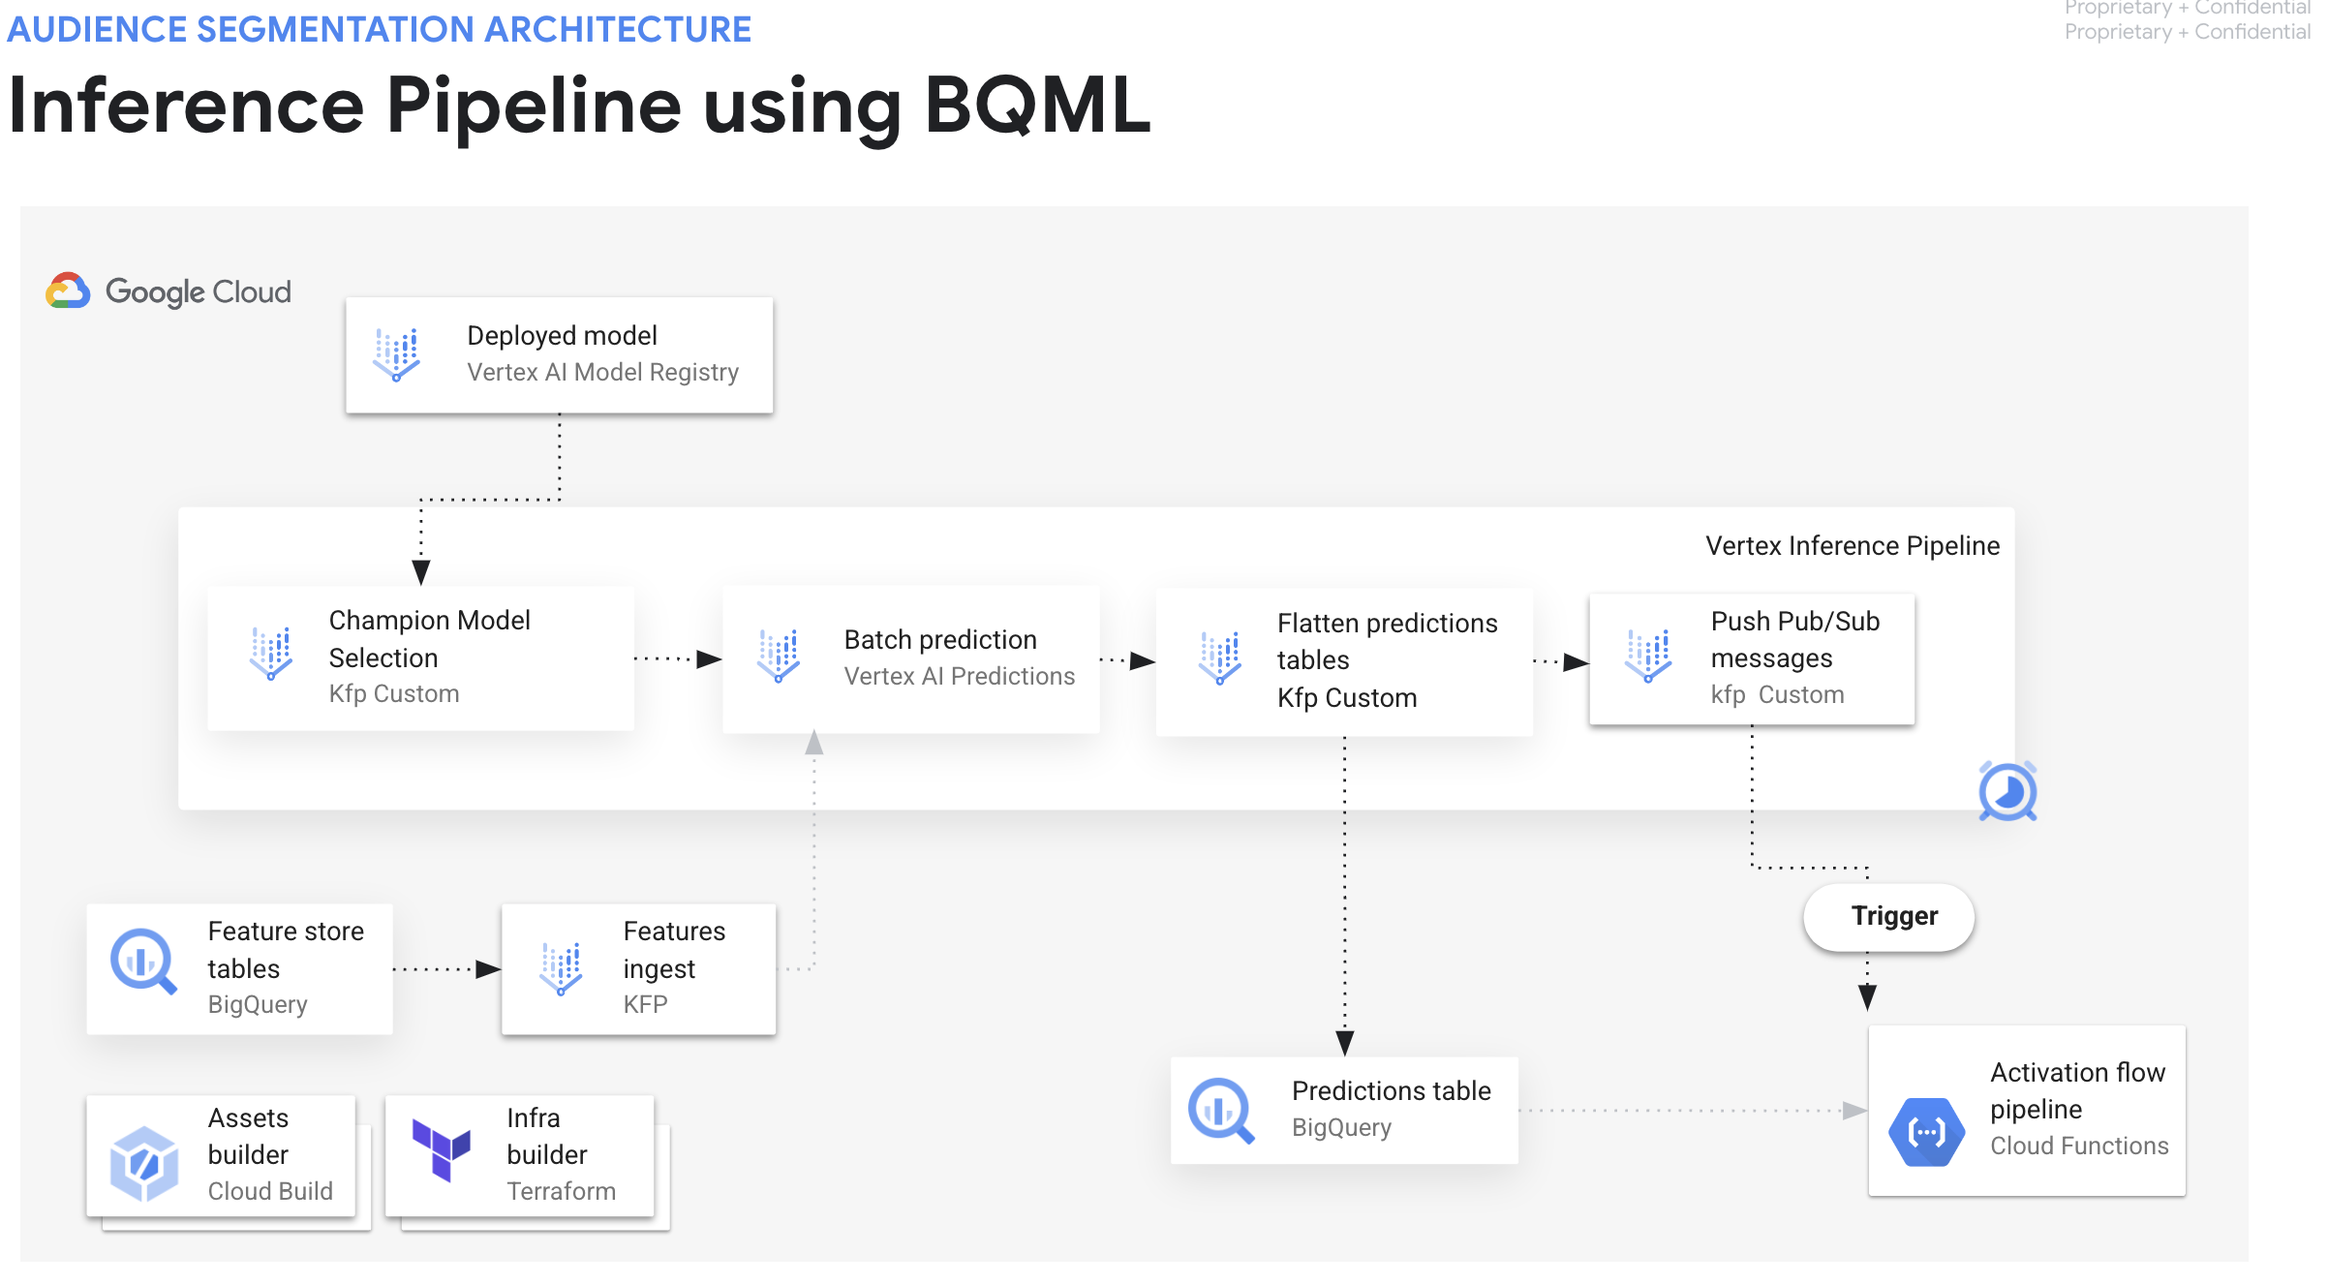
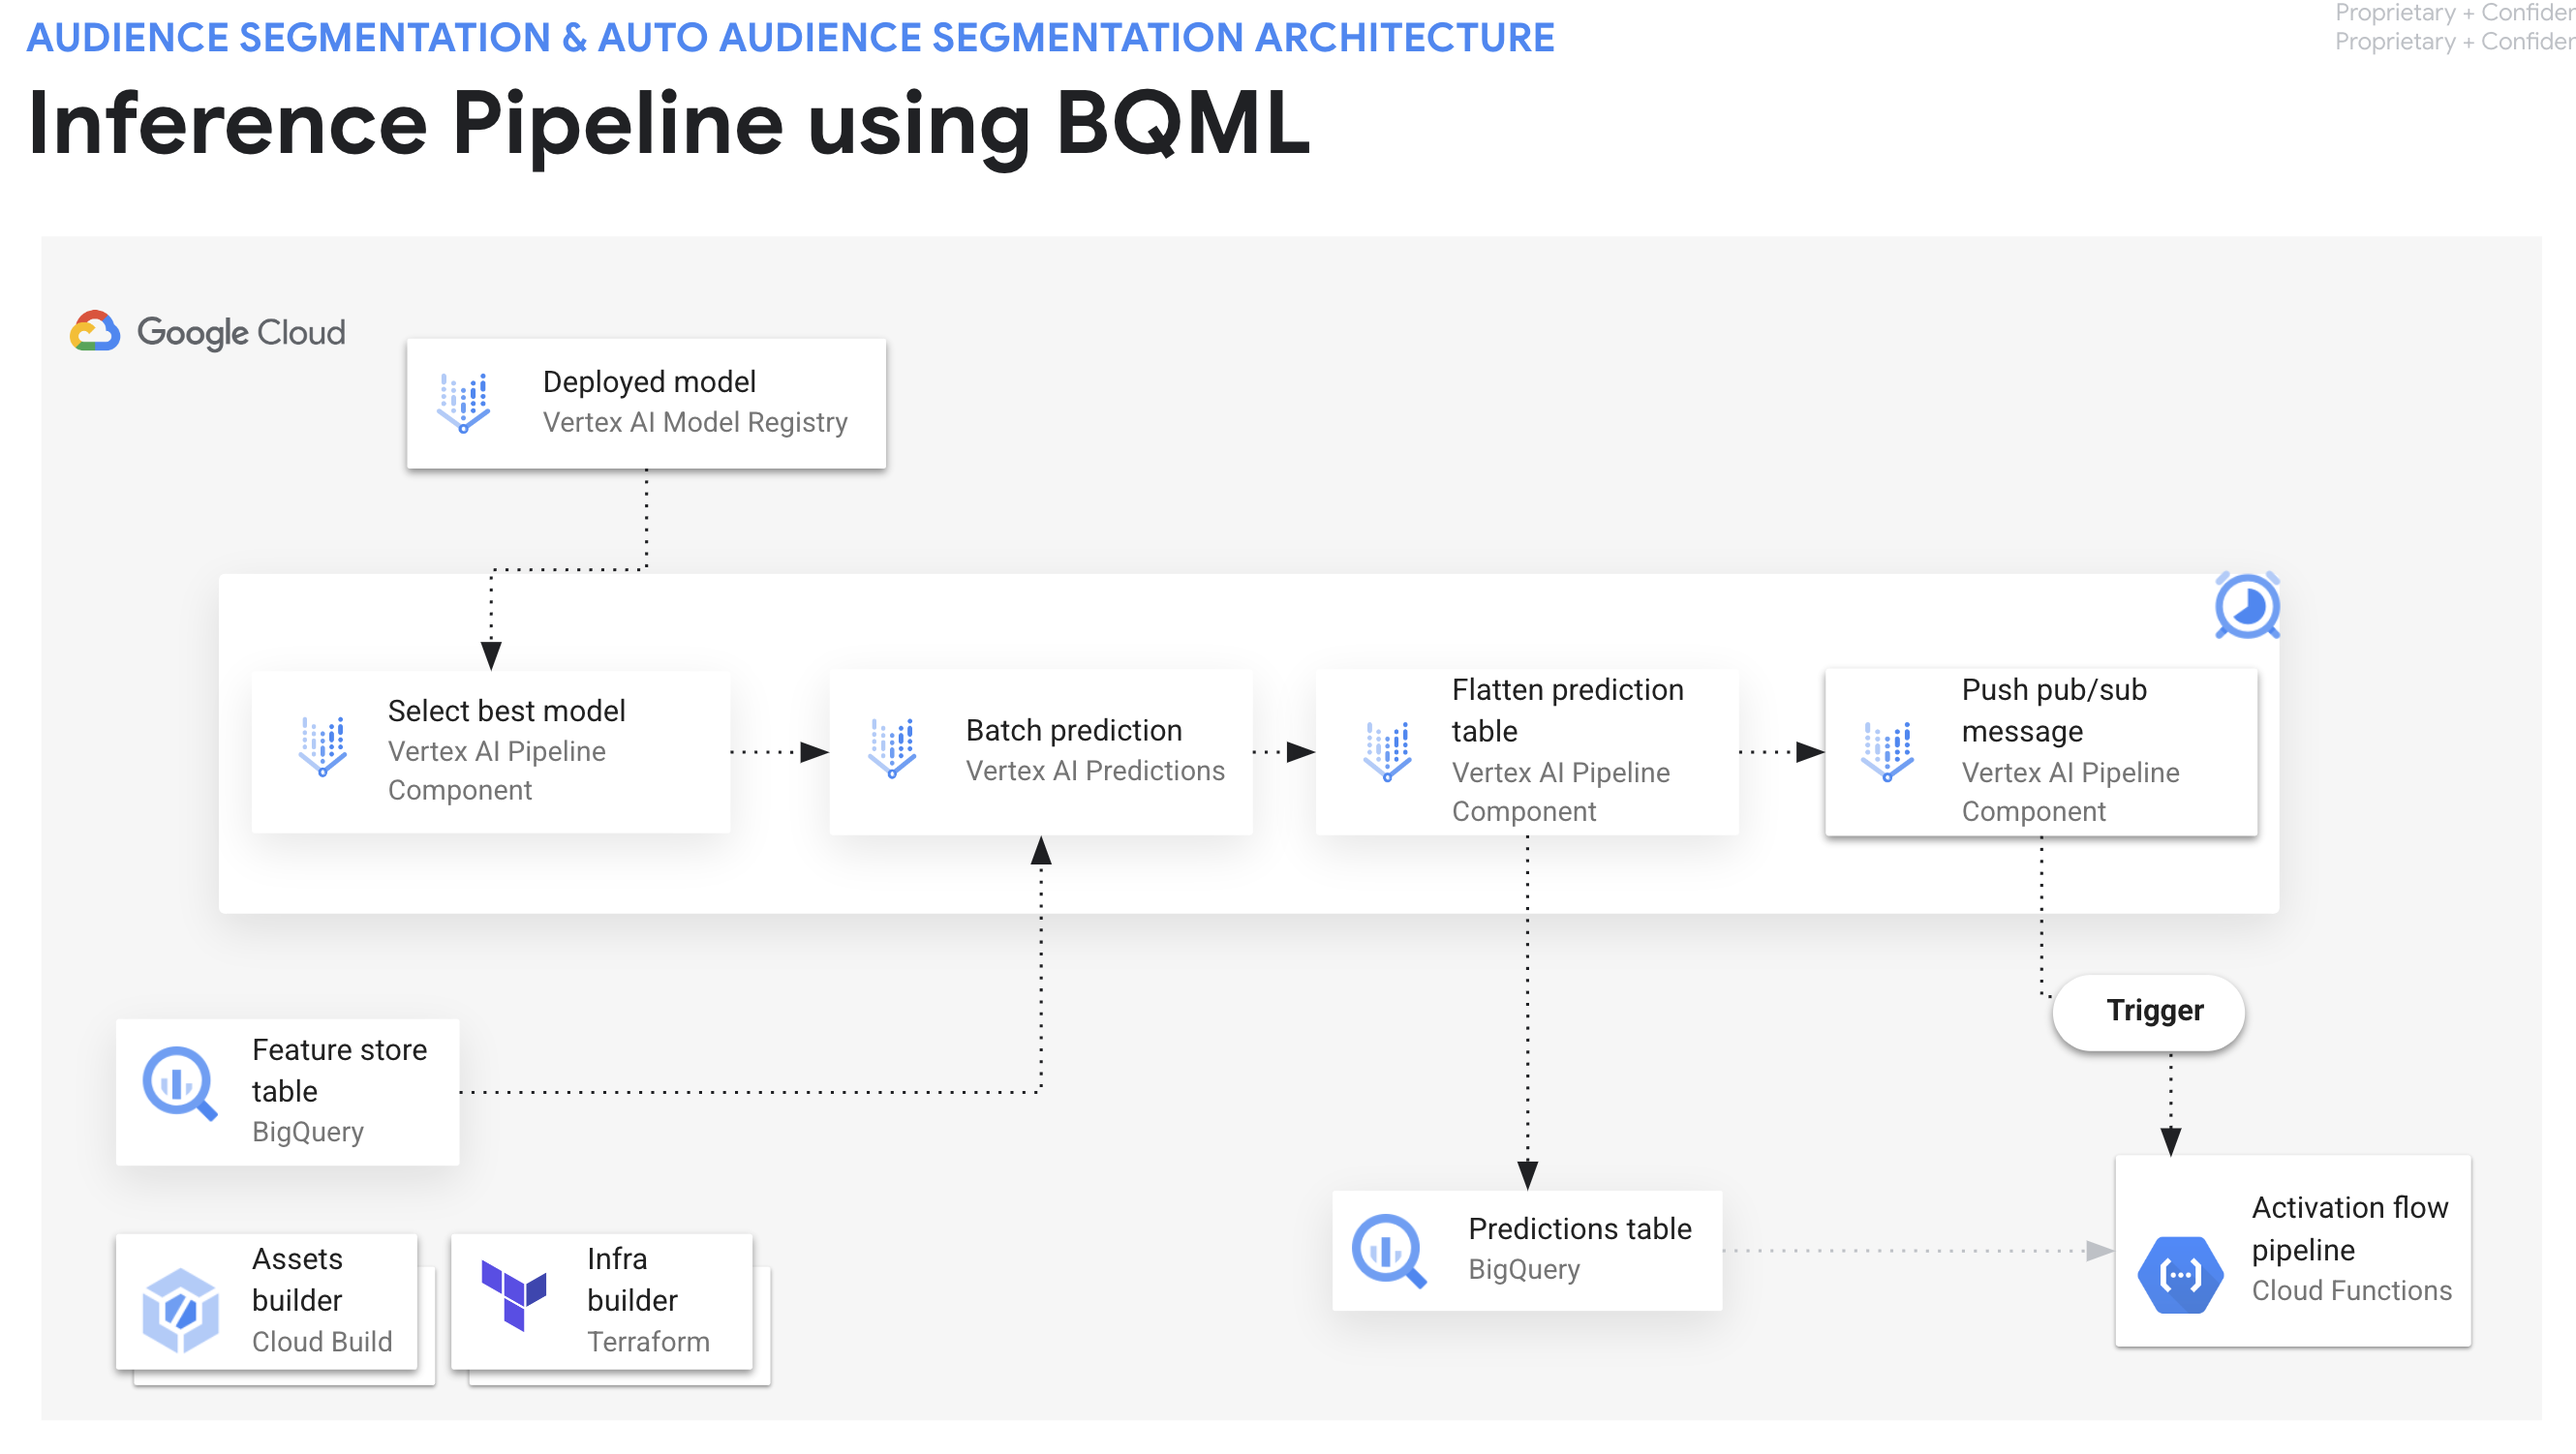
adding ml pipelines docs

diff --git a/docs/pipelines.md b/docs/pipelines.md
@@ -4,26 +4,29 @@
 
 The Machine Learning (ML) pipelines component involves leveraging ML models and building pipelines to automate and orchestrate the training and prediction tasks to obtain the predictive insights to be sent via the Activation Application and to presented in the Reporting dashboards.
 
-## Solution Architecture
+## Overall Solution Architecture
 
-![Feature Engineering pipelines architecture](images/pipelines_feature_engineering_architecture.png)
-This architecture diagram illustrates the process of preparing features for machine learning models. The core components are:
-* **Data Store**: This represents the marketing data store data, present in BigQuery, that comes from Google Analytics 4.
+![Overall ML Pipelines Architecture](images/pipelines_overall_ml_pipeline_architecture.png)
+
+This architecture diagram illustrates the process of training and running prediction for machine learning models. The core components are:
+
 * **Feature Store**: This is a central repository where features used to train the model are stored. It's designed for efficient access and management of features, ensuring consistency and reusability across different ML models. In the feature store, labels, dimensions and metrics are stored in tables in BigQuery.
-* **Training and Inference preparation procedures**: This step involves cleaning, transforming, and enriching the feature data. It might include tasks like handling missing values, removing duplicates, converting data types, scaling values.
-* **Use Cases Tables**: Independent tables and views created for each individual use case containing data ready for training and prediction tasks for that specific date. Model training and inference can be reproduced by re-running this procedures with parameters set for any date in the past.
+* **Training pipeline**: This component involves training a model on Vertex AI using the training data stored in BigQuery tables, evaluating the model using the evaluation data, optionally, obtaining feature importance, and uploading the new model version to the Vertex AI Model Registry. It might include tasks like handling missing values, ranking and selecting features, converting data types, scaling values, running hyperparameter tuning, distilling and more.
+* **Inference pipeline**: This component involves selecting the best model version, running batch prediction using the feature store data, prepare the predictions table and publishing a pub/sub message to trigger the Activation application.
 
 **Benefits of this Architecture**
-* **Data Consistency**: The Feature Store ensures that all models use the same, consistent features, reducing errors and improving model performance.
-* **Feature Reusability**: Features can be reused across multiple models, saving time and effort.
-* **Scalability**: The Feature Store can handle large datasets and complex feature engineering pipelines.
-* **Improved Model Performance**: By providing clean, well-engineered features, the Feature Store helps improve the accuracy and reliability of ML models.
+* **Pipeline Consistency**: The ML pipelines ensures that all models use the same, consistent pipeline steps, reducing errors and enabling troubleshooting model performance.
+* **Reduced time to value**: Models can be deployed and used in production leveraging serverless data and AI platforms, BigQuery and Vertex AI. Without incurring managing and maintaining the typical infrastructure required.
+* **Customization**: Bring your own model, customize the training and inference pipelines and leverage state of the art models, including GenAI models.
 
-In essence, this architecture streamlines the data preparation process, making it easier to build and deploy high-quality ML models.
+In essence, this architecture provides a streamlined and efficient way to build and deploy machine learning models for marketing analytics using Google Cloud BigQuery and Vertex AI.
+
+## Implemented Architectures
 
 ![Tabular Workflows pipelines architecture](images/pipelines_tabular_worflows_training_architecture.png)
 
 This architecture diagram illustrates the process of training and deploying ML models using Tabular Workflows. All these stepsand other more are implemented in the Tabular Workflows, its main core components are:
+
 * **Data Source**: This represents the use case prepared training dataset, present in BigQuery, prepared as a result of the feature engineering pipeline.
 * **Model Training**: The prepared data is then used to train a machine learning model. Tabular Workflows supports various model types, including linear regression, logistic regression, and decision trees.
 * **Model Evaluation**: The trained model is evaluated on a separate dataset to assess its performance. This helps determine how well the model generalizes to unseen data.
@@ -37,22 +40,42 @@ This architecture diagram illustrates the process of training and deploying ML m
 * Automated Pipelines: Tabular Workflows automates the entire ML pipeline, from data ingestion to model deployment, reducing manual effort and ensuring consistency.
 * Parametrization and Setting Defaults: Tabular Workflows enables defining default parameters to ensure speed and reproducibility.
 
-In essence, this architecture provides a streamlined and efficient way to build and deploy machine learning models for marketing analytics using Google Cloud's Tabular Workflows.
+![Inference Pipeline Tabular Architecture](images/pipelines_tabular_workflows_predictions_architecture.png)
 
-![Prediction Pipeline Tabular architecture](images/pipelines_tabular_workflows_predictions_architecture.png)
+This architecture diagram illustrates the process of producing predictions, storing them in BigQuery, and triggering the Activation Application. The core components are:
 
-This architecture diagram illustrates the process of producing predictions, storing them in BigQuery, and sending them to the Activation Application. The core components are:
-* **Data Store**: This represents the use case prepared prediction dataset, present in BigQuery, prepared as a result of the feature engineering pipeline.
-* **Select Best Model**:
-* **Select Best Model**:
+* **Data Source**: This represents the use case prepared prediction dataset, in BigQuery, prepared as a result of the feature engineering pipeline.
+* **Select Best Model**: The best performant model version according to an evaluation metric and a threshold is selected to be used in the further steps.
+* **Model Batch Prediction**: The selected model is used for batch prediction using the features prepared for prediction. The predictions results are saved in BigQuery and used in the next steps.
+* **Prepare Predictions**: Transform and prepare the predictions for them to be ready for ingestion by the Activation application.  
+* **Trigger Activation Pipeline**: Send a pub/sub message to trigger the application pipeline providing the prediction table and the use case parameters.
 
 In essence, this architecture provides a streamlined and efficient way to make predictions using Google Cloud's Tabular Workflows, enabling you to leverage your trained models for real-world marketing insights.
 
 ![Customer LTV Prediction Pipeline](images/pipelines_customer_ltv_prediction_pipeline_architecture.png)
 
-![Training pipelines architecture](images/pipelines_bqml_training_architecture.png)
+This architecture diagram illustrates the process of running inference pipeline using Tabular Workflow for a sophisticated process that takes two models predictions into account to produce the desired insights. The key differences are:
+
+* **Select best model version for a purchase propensity and a customer lifetime value revenue regression models**: In this case, select a purchase propensity (classification) and a customer lifetime value (regression) model versions based on a key evaluation metric and thresholds. These models must produce predictions taking into consideration the same look ahead nunber of dates. For instance, a 30 day look ahead trained purchase propensity model and a 30 day look ahead trained customer lifetime value model is selected to provide customer lifetime value insights in the future 30 days.
+* **Union model predictions and apply rule to produce final prediction values**: By taking these two raw predictions as inputs for this step, we can apply a rule that will produce the final prediction value to be stored in the predictions table. In this case, the logic implemented is to attribute 0.0 as final customer lifetime value revenue gain in case the user has a purchase probability lower than a threshold percentage; or else, use the raw prediction from the customer lifetime value model if the purchase probability is higher.
+
+![Training Pipeline BQML architecture](images/pipelines_bqml_training_architecture.png)
+
+This architecture diagram illustrates the process of training and deploying ML models using [BigQuery ML](https://cloud.google.com/bigquery/docs/bqml-introduction) (BQML). All these steps are implemented as Vertex AI Pipeline components that are executed in BigQuery, its main core components are:
+
+* **Ingest data source**: The Feature Store training preparation stored procedures prepares the data to be ingested by the BigQuery ML model. Using a single DML statement, BigQuery trigger the training routine, feeds the data to train the model and at the end uploads the trained model to Vertex AI.
+* **Train and evaluate a BigQuery ML model**: BigQuery trains the Machine Learning model using its compute and data platform.
+* **Upload the model to Vertex AI Model Registry**: The model is available under the BigQuery dataset related to the use case and registered in Vertex AI Model Registry, becoming easy to govern and discover.
 
 ![Prediction Pipeline BQML architecture](images/pipelines_bqml_prediction_pipeline_architecture.png)
+
+This architecture diagram illustrates the process of running the BQML model prediction pipeline. All these steps are implemented as Vertex AI Pipeline components that are executed in BigQuery, its main core components are:
+
+* **Data Source**: The feature inference preparation stored procedure prepares the data to be served as input for batch prediction.
+* **Select best model version**: The model version that performs best according to a defined evaluation metric and a threshold is selected for batch prediction.
+* **Batch prediction**: The raw predictions are produced.
+* **Prepare model for prediction**: The predictions are prepared and saved in BigQuery in a format to be consumed by the Activation application.
+* **Trigger activation application**: A pub/sub message is sent to trigger the Activation application by providing the adequate parameters related to the use case.
 
 ## Who is this solution for?
 
